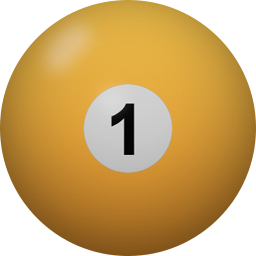
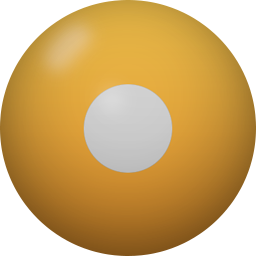
Update images and styling on PlayerDisplay

Changed region(s): [[0.4062, 0.4062, 0.5312, 0.625]]

diff --git a/code/ui/PlayerDisplay.scss b/code/ui/PlayerDisplay.scss
@@ -13,10 +13,33 @@
         font-size: 24px;
         height: 60px;
         padding: 10px;
-        top: 40px;
+        top: 50px;
         transition: all 0.2s ease;
 
+        .score-container {
+            align-items: center;
+            background-color: rgba(#040507,0.7);
+            border-radius: 50%;
+            height: 40px;
+            justify-content: center;
+
+
+            .ball {
+                background-image: url(/ui/pool/ball-unset.png);
+                background-size: 100%;
+                border-radius: 50%;
+                width: 32px;
+                height: 32px;
+            }
+
+            .score {
+                color: #fff;
+                font-size: 20px;
+            }
+        }
+
         .ball {
+            box-shadow: 0 10px 20px rgba(#000,0.3);
 
             &.stripes {
                 background-image: url(/ui/pool/ball-stripes.png);
@@ -95,28 +118,6 @@
                 height: 32px;
             }
         }
-
-
-        .score-container {
-            align-items: center;
-            background-color: rgba(#040507,0.7);
-            border-radius: 50%;
-            height: 40px;
-            justify-content: center;
-
-
-            .ball {
-                box-shadow: 0 10px 20px rgba(#000,0.3);
-                width: 32px;
-                height: 32px;
-            }
-
-            .score {
-                color: #fff;
-                font-size: 20px;
-            }
-        }
-
 
         &.active {
             background-color: rgba(#1A202B,1);
